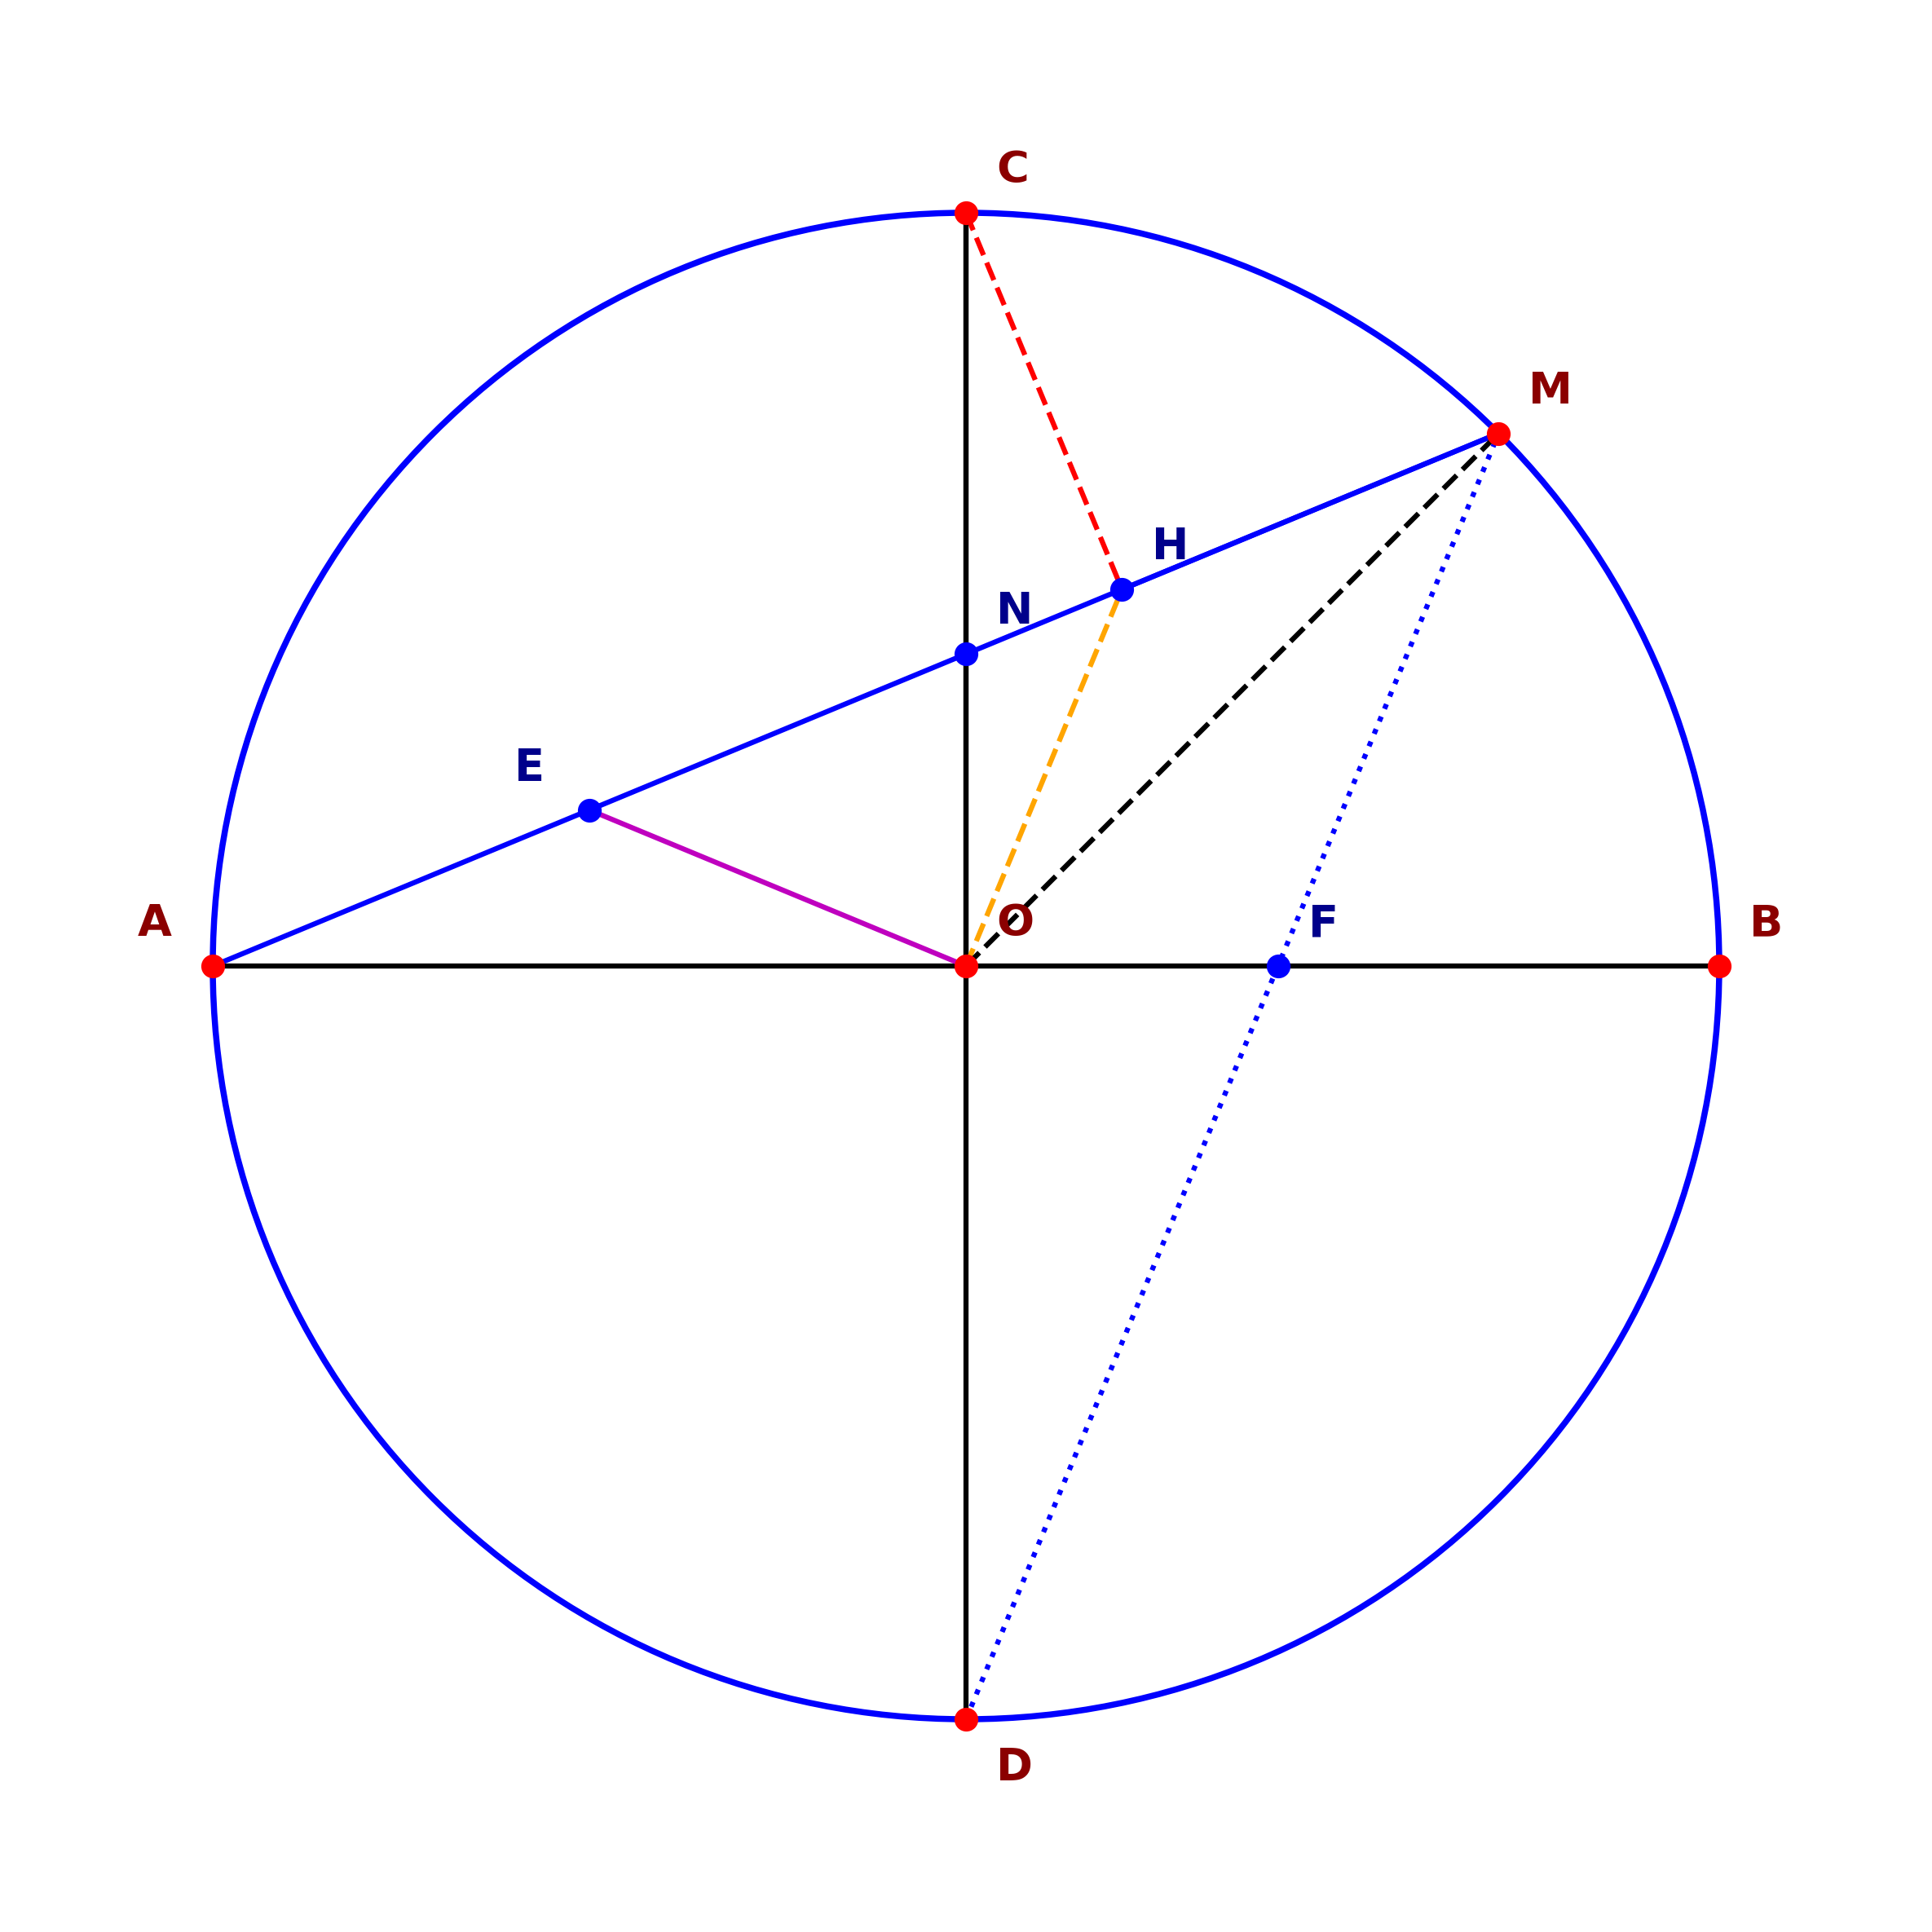
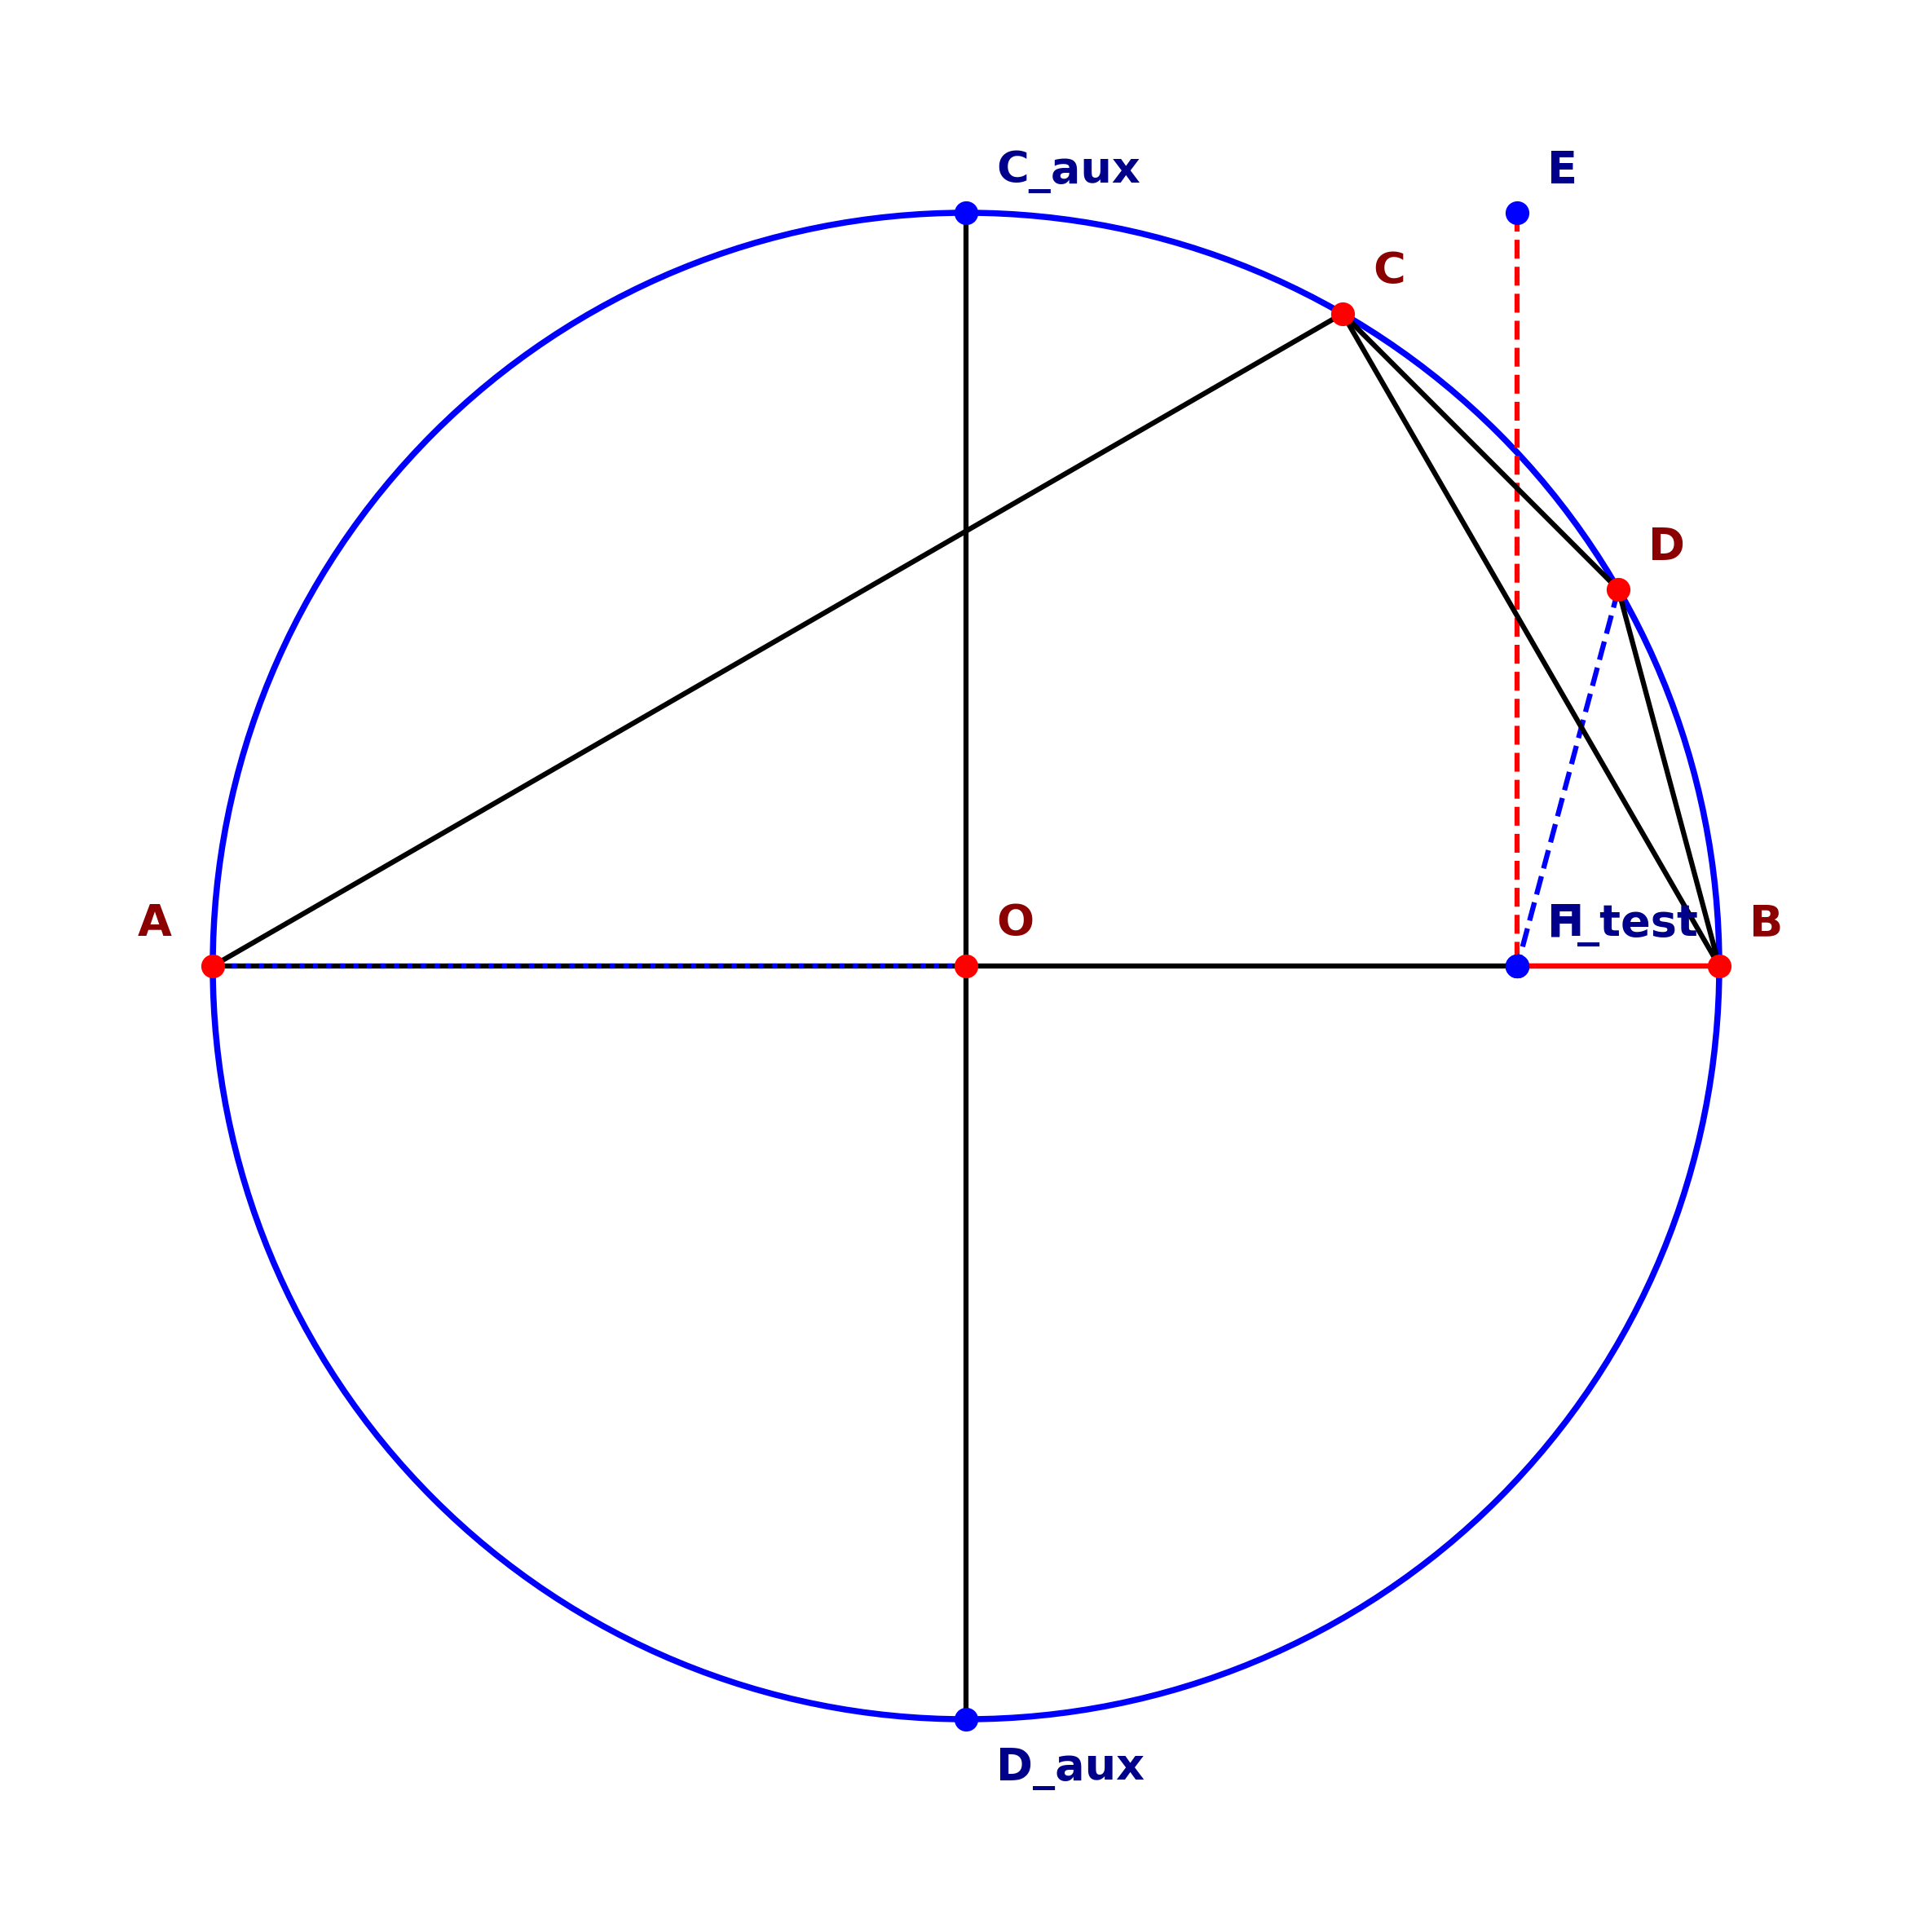
feat: implement Gradio web interface for tool interactions and geometry processing

diff --git a/gradio_app.py b/gradio_app.py
@@ -1,0 +1,270 @@
+import os
+import re
+import json
+import inspect
+import io
+import sys
+from pathlib import Path
+
+import gradio as gr
+from dotenv import load_dotenv
+import requests
+from tools import GeometryEngine
+
+load_dotenv()
+
+LLM_API = os.getenv("LLM_API_URL", "http://10.0.99.116:8070/v1/chat/completions")
+SKIP_METHODS = {'__init__'}
+
+def build_tool_descriptions(engine):
+    lines = []
+    for name in sorted(dir(engine)):
+        if name.startswith('_') or name in SKIP_METHODS:
+            continue
+        method = getattr(engine, name, None)
+        if not callable(method):
+            continue
+        doc = inspect.getdoc(method) or "Không có mô tả."
+        sig = inspect.signature(method)
+        params = list(sig.parameters.keys())
+        param_str = ', '.join(params) if params else "Không có tham số"
+        lines.append(f"{name}: {doc} Input: {param_str}")
+    return '\n'.join(lines)
+
+def call_llm(system: str, user: str, api_url: str):
+    payload = {
+        "model": "", "messages": [
+            {"role": "system", "content": system},
+            {"role": "user", "content": user},
+        ], "stream": False,
+        "options": {"temperature": 0.0, "top_p": 0.95, "top_k": 64, "num_ctx": 40000},
+        "chat_template_kwargs": {"enable_thinking": False},
+    }
+    resp = requests.post(api_url, json=payload, stream=False, timeout=120)
+    if resp.status_code != 200:
+        return None, {}
+    data = resp.json()
+    return data["choices"][0]["message"]["content"], data.get("usage", {})
+
+def parse_actions(text: str):
+    m_json = re.search(r"```(?:json)?\s*(.*?)\s*```", text, re.DOTALL)
+    json_block = m_json.group(1) if m_json else text
+    try:
+        cleaned = ' '.join(line.strip() for line in json_block.split('\n'))
+        return json.loads(cleaned.strip())
+    except json.JSONDecodeError:
+        pass
+    if 'final_answer' in text:
+        answer_text = ""
+        if m_json:
+            answer_text = text[m_json.end():].strip()
+        else:
+            m_ans = re.search(r'"answer"\s*:\s*"([^"]*)"', text)
+            if m_ans:
+                answer_text = m_ans.group(1)
+        if answer_text:
+            return [{"reason": "Hoàn thành bài toán",
+                     "next_action": "final_answer",
+                     "input": {"answer": answer_text},
+                     "context": ""}]
+    raise json.JSONDecodeError("Không thể parse JSON", text, 0)
+
+def solve_problem(query: str, api_url: str, progress=gr.Progress()):
+    if not query.strip():
+        return "⚠️ Vui lòng nhập đề bài.", None, ""
+    
+    engine = GeometryEngine()
+    log_lines = []
+    output_image = None
+    
+    def log(msg):
+        log_lines.append(msg)
+        progress(0, desc=msg[:80])
+    
+    tool_descriptions = build_tool_descriptions(engine)
+    
+    system_prompt = f"""Bạn là chuyên gia Toán Hình Học, có khả năng phân tích đề bài và điều khiển các công cụ để tính toán tọa độ và dựng hình chính xác.
+
+<tools>
+{tool_descriptions}
+</tools>
+
+<rules>
+- Mỗi bước (Step) chỉ được gọi duy nhất MỘT tool.
+- Luôn gọi tool `reset_session` ở bước đầu tiên (Step 1) để đảm bảo không bị lẫn dữ liệu cũ.
+- Đối với bài toán KHÔNG CÓ TỌA ĐỘ: Bắt buộc dùng `create_general_triangle` hoặc `create_circle_with_diameter` để tự động gán tọa độ nền móng trước, tuyệt đối không tự bịa số cụ thể bằng `add_point`.
+- Đối với bài toán CÓ TỌA ĐỘ: Dùng `add_point` cho từng đỉnh.
+- Thực hiện tính toán/dựng hình tuần tự theo các dữ kiện đề bài đưa ra.
+- Khi đã dựng xong toàn bộ cấu trúc hình học, hãy gọi:
+  1. `draw_geometry_and_save` để xuất ảnh
+  2. `final_answer` để đưa ra lời giải text (chứng minh, tọa độ, kết luận)
+- BẮT BUỘC: Sau `draw_geometry_and_save` bắt buộc phải gọi `final_answer`.
+- Khi gọi `final_answer`, viết input {{"answer": "XEM_BEN_DUOI"}}. Sau đó viết lời giải chi tiết ra NGOÀI khối JSON.
+- BẮT BUỘC: Trước khi gọi `draw_geometry_and_save`, kiểm tra **tất cả các cặp điểm** được nối trong đề bài đều đã gọi `add_segment`. Nếu thiếu cạnh/cung nào, hãy bổ sung bằng `add_segment`.
+- Output bắt buộc tuân thủ định dạng JSON array:
+  [{{"reason": "Suy nghĩ logic của bạn về bước tiếp theo", "next_action": "tên_tool", "input": {{"param": "value"}}, "context": "Tóm tắt trạng thái các điểm"}}]
+- TRƯỜNG HỢP ĐẶC BIỆT: Nếu phân tích đề bài thấy xuất hiện tác vụ hình học mà KHÔNG CÓ tool nào đáp ứng được, hãy trả về:
+  [{{"reason": "Phát hiện yêu cầu [tác_vụ] nhưng chưa có công cụ.", "next_action": "error_missing_tool", "input": {{"required_task": "Mô tả tác vụ bị thiếu"}}, "context": "Dừng do thiếu công cụ."}}]
+</rules>"""
+
+    MAX_STEPS = 50
+    done = False
+    history = ""
+    answer_text = ""
+    
+    for step in range(MAX_STEPS):
+        if done:
+            break
+        
+        step_msg = f"\n{'='*40}\nSTEP {step+1}/{MAX_STEPS}\n{'='*40}"
+        log(step_msg)
+        
+        user = f"""<query>{query}</query>
+<step>{step+1}/{MAX_STEPS}</step>
+<current_geometry_state>
+{history if history else "Hệ thống đang trống. Chưa có thực thể nào."}
+</current_geometry_state>
+<task>
+Dựa vào <current_geometry_state>, hãy chọn bước đi tiếp theo.
+
+QUY TẮC BẮT BUỘC ĐỂ TRÁNH VÒNG LẶP VÀ ĐẢM BẢO HÌNH VẼ HOÀN CHỈNH:
+1. Nếu đã có 'reset_session' trong lịch sử, KHÔNG gọi lại. Chuyển sang dựng hình nền móng.
+2. Chỉ gọi một tool duy nhất hợp lý cho bước này.
+3. Sau khi gọi `draw_geometry_and_save`, gọi ngay `final_answer` ở step kế tiếp.
+4. Nếu thiếu tool để thực hiện tác vụ hình học, gọi `error_missing_tool`.
+5. KIỂM TRA KẾT NỐI: Trước khi gọi `draw_geometry_and_save`, dò lại toàn bộ đề bài. Với mỗi cặp điểm được nhắc đến (cạnh tam giác, đường chéo, đường cao, giao tuyến...), hãy đảm bảo đã gọi `add_segment` cho chúng.
+</task>"""
+
+        content, usage = call_llm(system_prompt, user, api_url)
+        if not content:
+            log("❌ LLM không phản hồi")
+            continue
+        
+        log(f"LLM: {content[:200]}...")
+        
+        try:
+            actions = parse_actions(content)
+        except Exception as e:
+            log(f"⚠️ Parse JSON lỗi: {e}")
+            continue
+        
+        if isinstance(actions, dict):
+            actions = [actions]
+        
+        for act in actions:
+            action = act.get("next_action", "")
+            inp = act.get("input", {})
+            
+            log(f"🔧 Tool: {action} | Input: {inp}")
+            
+            if action == "error_missing_tool":
+                msg = f"HỆ THỐNG ĐÃ DỪNG: Thiếu công cụ cho tác vụ: [{inp.get('required_task')}]."
+                log(f"❌ {msg}")
+                done = True
+                break
+            
+            if action == "final_answer":
+                answer_text = inp if isinstance(inp, str) else inp.get("answer", str(inp))
+                log(f"✅ HOÀN THÀNH")
+                done = True
+                break
+            
+            if hasattr(engine, action):
+                tool_func = getattr(engine, action)
+                try:
+                    tool_result = tool_func(**inp)
+                except TypeError as e:
+                    tool_result = f"Lỗi: Sai tham số tool '{action}'. Chi tiết: {e}"
+            else:
+                tool_result = f"Lỗi: Engine không hỗ trợ tool '{action}'"
+            
+            log(f"   Kết quả: {tool_result[:150]}")
+            history += f"\n\nLLM chọn tool: {action} input: {inp} → {tool_result}"
+    
+    # Kiểm tra file ảnh đã được tạo chưa
+    img_path = Path("geometry_output.png")
+    if img_path.exists():
+        log(f"📷 Ảnh đã lưu tại: {img_path.resolve()}")
+    
+    full_log = "\n".join(log_lines)
+    
+    # Nếu file ảnh không tồn tại, thử vẽ lại
+    if not img_path.exists() and engine.points:
+        try:
+            result = engine.draw_geometry_and_save()
+            log(f"📷 {result}")
+        except Exception as e:
+            log(f"⚠️ Không thể vẽ hình: {e}")
+    
+    return full_log, str(img_path) if img_path.exists() else None, answer_text
+
+
+# ===== Gradio Interface =====
+examples = [
+    ["Cho tam giác ABC vuông tại B, AB=4, BC=6. Vẽ trung điểm M của BC và chân đường cao H từ A xuống BC."],
+    ["Cho (O; R) có hai đường kính AB và CD vuông góc với nhau. Một điểm M di động trên cung nhỏ BC (M không trùng với C và B), AM cắt CD tại N. Kẻ CH vuông góc với AM tại H. Gọi giao điểm của DM với AB là F. a. Chứng minh tứ giác OACH nội tiếp. b. Qua O kẻ đường thẳng vuông góc với OH cắt AM tại E. Chứng minh rằng OH song song với DM và EN · HM = NH · ME. c. Tìm vị trí của M trên cung nhỏ BC để SMNF đạt giá trị lớn nhất."],
+    ["Cho đường tròn (O; R) đường kính AB. Lấy C thuộc (O) sao cho AC = R. Trên cung nhỏ BC lấy điểm D (D khác B và C). AC cắt BD tại E. Kẻ EH vuông góc với AB tại H. Tia DH cắt (O) tại điểm thứ hai là F. (a) Chứng minh 4 điểm A, E, D, H cùng thuộc một đường tròn. (b) Chứng minh ∠DHE = ∠DFC, từ đó suy ra △BCF đều. (c) Xác định vị trí điểm D để chu vi tứ giác ABDC đạt giá trị lớn nhất."],
+]
+
+with gr.Blocks(title="🧮 Geometry AI Agent", theme=gr.themes.Soft()) as demo:
+    gr.Markdown("""
+    # 🧮 Geometry AI Agent
+    Nhập đề bài hình học, agent sẽ tự phân tích, dựng hình và đưa ra lời giải.
+    """)
+    
+    with gr.Row():
+        with gr.Column(scale=1):
+            api_url = gr.Textbox(
+                label="LLM API URL",
+                value=os.getenv("LLM_API_URL", "http://10.0.99.116:8070/v1/chat/completions"),
+                placeholder="http://..."
+            )
+    
+    with gr.Row():
+        with gr.Column(scale=2):
+            query = gr.Textbox(
+                label="📝 Đề bài",
+                placeholder="Nhập đề bài hình học...",
+                lines=6
+            )
+            with gr.Row():
+                run_btn = gr.Button("🚀 Giải bài toán", variant="primary", size="lg")
+                clear_btn = gr.Button("🗑️ Xoá", size="lg")
+        
+        with gr.Column(scale=1):
+            image_output = gr.Image(label="📷 Hình vẽ", type="filepath", height=400)
+    
+    with gr.Accordion("📋 Log chi tiết", open=True):
+        log_output = gr.Textbox(label="Các bước thực hiện", lines=15, max_lines=30)
+    
+    with gr.Accordion("💡 Lời giải", open=True):
+        answer_output = gr.Textbox(label="Kết quả", lines=8)
+    
+    gr.Examples(
+        examples=examples,
+        inputs=query,
+        label="📌 Ví dụ đề bài"
+    )
+    
+    def run_solver(query_text, api_url_text):
+        if not query_text.strip():
+            return "⚠️ Vui lòng nhập đề bài.", None, ""
+        try:
+            log_text, img_path, answer = solve_problem(query_text, api_url_text)
+            return log_text, img_path, answer
+        except Exception as e:
+            return f"❌ Lỗi: {e}", None, ""
+    
+    run_btn.click(
+        fn=run_solver,
+        inputs=[query, api_url],
+        outputs=[log_output, image_output, answer_output]
+    )
+    
+    clear_btn.click(
+        fn=lambda: ("", None, ""),
+        outputs=[log_output, image_output, answer_output]
+    )
+
+if __name__ == "__main__":
+    demo.launch(server_name="0.0.0.0", server_port=7860, share=True)

diff --git a/tools.py b/tools.py
@@ -117,6 +117,87 @@ class GeometryEngine:
         self.add_segment(p1_l2, p2_l2, color='b', linestyle=':')
         return f"Đã tìm thấy giao điểm {result_name} tại ({px:.2f}, {py:.2f})."
 
+    def get_line_circle_intersection(self, p1_line, p2_line, center, result_1, result_2=None):
+        """Tìm giao điểm của đường thẳng (qua p1_line, p2_line) với đường tròn tâm center.
+        result_1: giao điểm gần p1_line nhất.
+        result_2: giao điểm thứ hai (nếu None thì bỏ qua).
+        Nếu một trong 2 điểm đã nằm trên đường tròn, trả về điểm còn lại là result_2.
+        """
+        if any(p not in self.points for p in [p1_line, p2_line, center]):
+            return "Lỗi: Thiếu dữ liệu điểm."
+        r = getattr(self, 'r', None)
+        if r is None:
+            return "Lỗi: Chưa khởi tạo bán kính đường tròn."
+        
+        x1, y1 = self.points[p1_line]
+        x2, y2 = self.points[p2_line]
+        cx, cy = self.points[center]
+        
+        dx, dy = x2 - x1, y2 - y1
+        # Giải PT bậc 2: (x1 + t*dx - cx)^2 + (y1 + t*dy - cy)^2 = r^2
+        a = dx*dx + dy*dy
+        b = 2 * (dx*(x1 - cx) + dy*(y1 - cy))
+        c = (x1 - cx)**2 + (y1 - cy)**2 - r*r
+        
+        disc = b*b - 4*a*c
+        if disc < -1e-9:
+            return f"Lỗi: Đường thẳng {p1_line}{p2_line} không cắt đường tròn."
+        if abs(disc) < 1e-9:
+            disc = 0  # tiếp tuyến
+        
+        sqrt_disc = np.sqrt(disc)
+        t1 = (-b + sqrt_disc) / (2*a)
+        t2 = (-b - sqrt_disc) / (2*a)
+        
+        if t1 > t2:
+            t1, t2 = t2, t1
+        
+        def point_at(t):
+            return (x1 + t*dx, y1 + t*dy)
+        
+        # Kiểm tra xem p1_line hoặc p2_line có nằm trên đường tròn không
+        # Nếu có, ưu tiên gán điểm kia cho result_2
+        on_circle = lambda x, y: abs((x-cx)**2 + (y-cy)**2 - r*r) < 1e-9
+        
+        pts = [point_at(t1), point_at(t2)]
+        
+        # Dedup (tiếp tuyến)
+        if abs(t1 - t2) < 1e-9:
+            pts = pts[:1]
+        
+        # Gán kết quả
+        n_assigned = 0
+        for t, pt in [(t1, pts[0]), (t2, pts[-1])]:
+            px, py = pt
+            matched_p1 = abs(px - x1) < 1e-9 and abs(py - y1) < 1e-9
+            matched_p2 = abs(px - x2) < 1e-9 and abs(py - y2) < 1e-9
+            
+            if matched_p1 and on_circle(x1, y1):
+                # p1_line đã nằm trên đường tròn, bỏ qua, lấy điểm kia
+                continue
+            if matched_p2 and on_circle(x2, y2):
+                continue
+            
+            name = result_1 if n_assigned == 0 else (result_2 if result_2 else None)
+            if name is None:
+                break
+            self.points[name] = (px, py)
+            n_assigned += 1
+        
+        # Tự động nối nét
+        if result_1 in self.points:
+            self.add_segment(p1_line, result_1, color='b', linestyle=':')
+        if result_2 and result_2 in self.points:
+            self.add_segment(p1_line, result_2, color='b', linestyle=':')
+        
+        if n_assigned == 0:
+            return f"Lỗi: Cả 2 điểm {p1_line},{p2_line} đều đã nằm trên đường tròn."
+        
+        msg = f"Đã tìm giao điểm của {p1_line}{p2_line} với đường tròn tâm {center}: {result_1}"
+        if result_2 and result_2 in self.points:
+            msg += f", {result_2}"
+        return msg
+
     def get_perpendicular_projection(self, point_name, p1_line, p2_line, result_name):
         """Hạ đường vuông góc từ một điểm xuống một đường thẳng (Tìm chân đường cao)."""
         x0, y0 = self.points[point_name]
@@ -228,7 +309,7 @@ class GeometryEngine:
             
         # 4. Vẽ các điểm (Nodes) và Gắn nhãn thông minh (Labels)
         # Gom nhóm các điểm chính để ưu tiên hiển thị màu nổi bật
-        main_vertices = ['A', 'B', 'C', 'D', 'O', 'M']
+        main_vertices = ['A', 'B', 'C', 'D', 'E', 'F', 'H', 'M', 'N', 'O']
         
         for name, (x, y) in self.points.items():
             # Điểm gốc/Đỉnh chính màu đỏ, các giao điểm hệ quả màu xanh nước biển